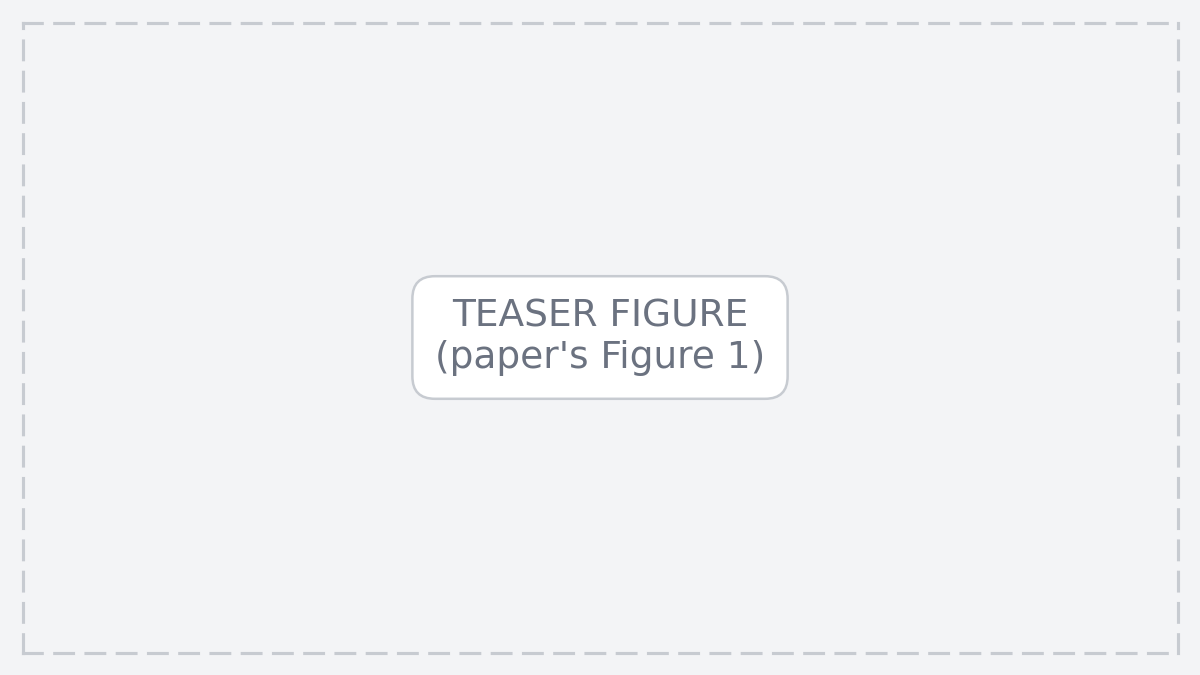
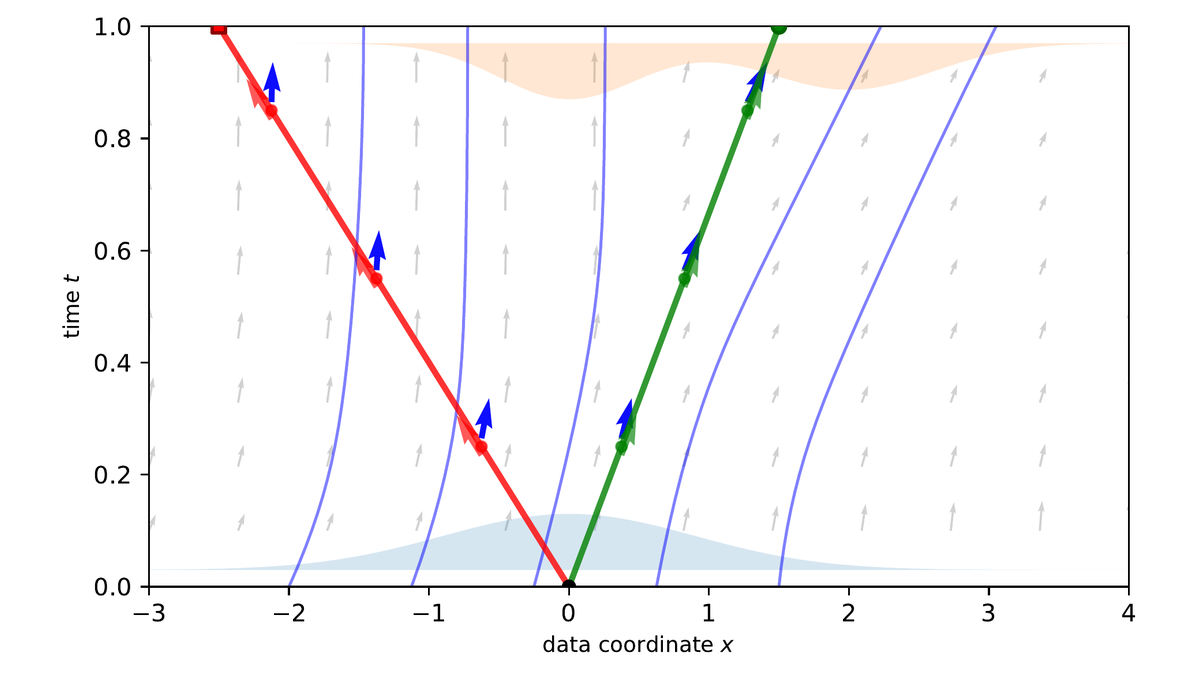
Add the paper's Figure 1 as the project page's teaser image
Pulled from the paper's Overleaf source (figure/flow_mismatch_normal_vs_anom.pdf,
\label{fig:fig1}) and rendered at 300dpi. Replaces the "TEASER FIGURE --
PASTE FROM PAPER" and "TEASER FIGURE (paper's Figure 1)" placeholders for
the page content and the publication-card thumbnail respectively.

diff --git a/content/publication/yan-flow-mismatching-neurips-2026/index.md b/content/publication/yan-flow-mismatching-neurips-2026/index.md
@@ -22,6 +22,8 @@ abstract: 'We propose Flow Mismatching, an unsupervised anomaly detection method
 summary: 'Unsupervised anomaly detection from the mismatch between a flow matching model''s learned velocity and the direct velocity toward a test image, giving pixel-wise heatmaps and image-level scores.'
 ---
 
+{{< figure src="figures/teaser.png" alt="Velocity mismatch in the (x,t) plane: affine paths toward a normal target stay aligned with the learned flow, while paths toward an anomalous target visibly diverge from it." caption="<span class=\"figure-number\">Figure 1: </span>**Velocity mismatch in the $(x,t)$ plane.** Light arrows show the learned flow $v_\\theta(x,t)$ from noise to normal data. Affine paths from the same starting noise $x_0$ target either a normal sample (green) or an anomalous sample (red). At selected times, the predicted velocity (blue) aligns with the geometric velocity toward normal targets but disagrees for anomalous targets — that disagreement is the anomaly signal Flow Mismatching detects." width="90%" >}}
+
 ## Overview {#overview}
 
 **Flow Mismatching** is an **unsupervised anomaly detection** method that does not rely on reconstruction. A **flow matching** model is trained only on normal images. For a test image, we compare the model's learned velocity field with the direct geometric velocity toward that image along paths from noise. Where the two disagree, the image is anomalous; aggregating these **velocity mismatches** across time steps and paths gives pixel-wise anomaly heatmaps and image-level scores.
